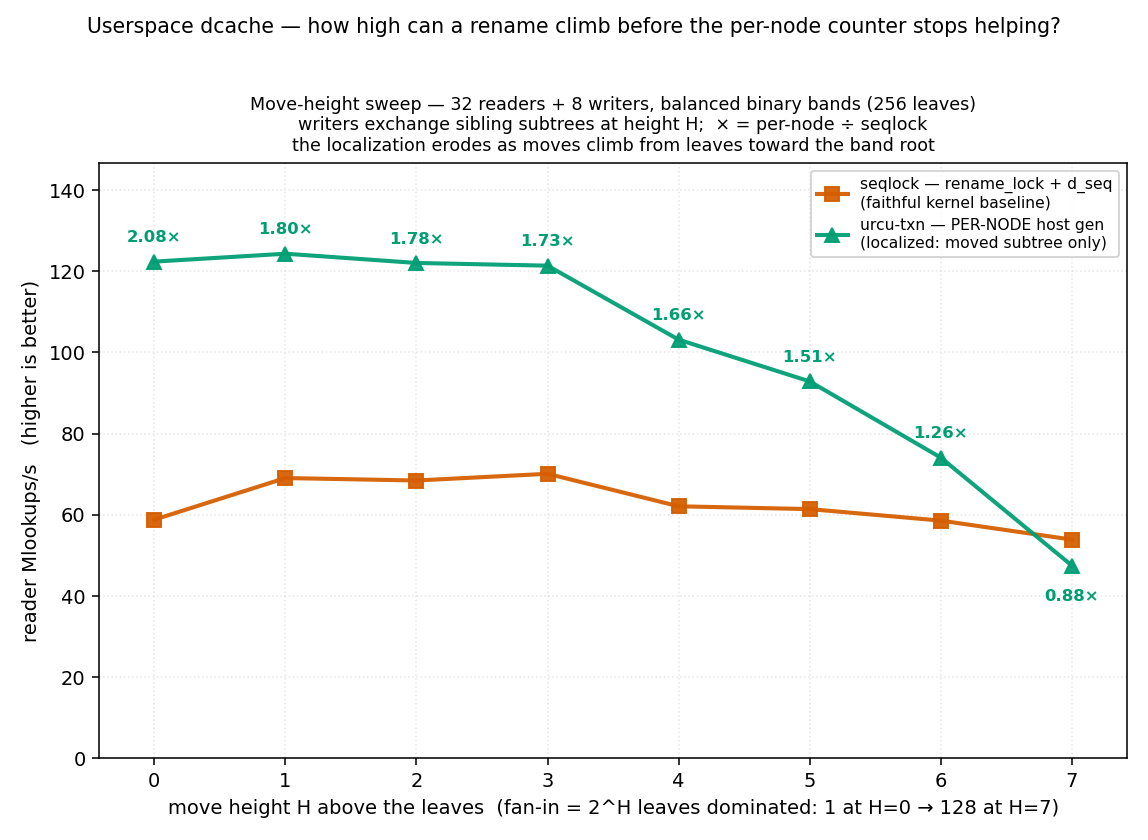
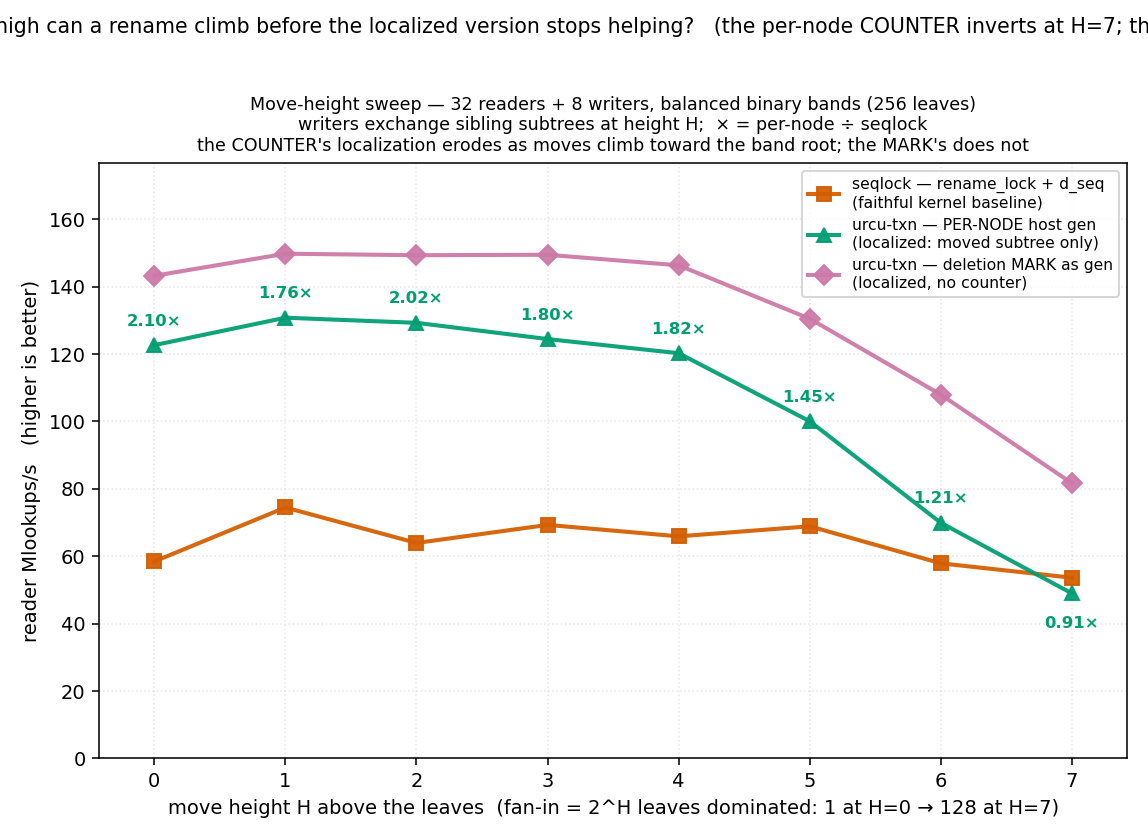
dcache: height panel -- the mark arm removes the near-root inversion
The third figure had not been regenerated: figures/dcache_height.png was
still from Jul 17, its CSV had no txn-mark rows, and the plot script's
ENGINES was a hardcoded two-way.  Wired the arm into the height binary,
the sweep and the plot, and resswept.

This is the panel where the localized arms could plausibly DIVERGE
rather than coincide -- per-node is weakest here, its lead over seqlock
eroding as moves climb toward the band root -- and they do,
substantially:

    H  fan-in   seqlock  pernode     mark | mark/pn  pn/seq  mark/seq
    0       1      60.4    119.9    142.8 |   1.19x   1.98x     2.36x
    2       4      63.7    125.3    151.3 |   1.21x   1.97x     2.38x
    4      16      66.9    120.3    148.7 |   1.24x   1.80x     2.22x
    5      32      65.5     84.9    131.9 |   1.55x   1.30x     2.01x
    6      64      56.5     74.7    109.2 |   1.46x   1.32x     1.93x
    7     128      54.2     49.1     79.8 |   1.62x   0.91x     1.47x

Reads: mark/per-node geomean 1.309x over the 8 heights, all eight points
in the same direction and growing monotonically with fan-in.  Writes are
a wash at 1.031x geomean, so this is not reads bought with writes -- the
harness is role-split with FIXED 8 writers + 32 readers and disjoint
writer bands, so the two rates are independent outcomes.

THE RESULT: at H=7 the per-node counter INVERTS below the kernel-style
baseline, 0.91x seqlock -- recorded elsewhere as the honest bound on
[…]

diff --git a/scripts/plot_dcache_height.py b/scripts/plot_dcache_height.py
@@ -29,13 +29,18 @@ CSV = os.path.join(HERE, "dcache_height.csv")
 OUT = os.environ.get("OUT",
                      os.path.join(HERE, os.pardir, "figures", "dcache_height.png"))
 
-COLOR = {"seqlock": "#D55E00", "txn-pernode": "#009E73"}
-MARKER = {"seqlock": "s", "txn-pernode": "^"}
+COLOR = {"seqlock": "#D55E00", "txn-pernode": "#009E73", "txn-mark": "#CC79A7"}
+MARKER = {"seqlock": "s", "txn-pernode": "^", "txn-mark": "D"}
 LABEL = {
     "seqlock": "seqlock — rename_lock + d_seq\n(faithful kernel baseline)",
     "txn-pernode": "urcu-txn — PER-NODE host gen\n(localized: moved subtree only)",
+    "txn-mark": "urcu-txn — deletion MARK as gen\n(localized, no counter)",
 }
-ENGINES = ("seqlock", "txn-pernode")
+# The height panel is where the localized arms are WEAKEST (the per-node lead
+# erodes toward the root), so it is the panel where they could plausibly diverge
+# rather than coincide -- worth plotting the mark arm here explicitly.
+ENGINES = tuple(os.environ.get(
+    "ENGINES", "seqlock txn-pernode txn-mark").split())
 rows = [r for r in csv.DictReader(open(CSV)) if r["conserved"] == "OK"]
 
 
@@ -78,12 +83,13 @@ ax.set_xlabel("move height H above the leaves  "
 ax.set_ylabel("reader Mlookups/s   (higher is better)")
 ax.set_title("Move-height sweep — 32 readers + 8 writers, balanced binary bands "
              "(256 leaves)\nwriters exchange sibling subtrees at height H;  "
-             "× = per-node ÷ seqlock\nthe localization erodes as moves climb from "
-             "leaves toward the band root", fontsize=9)
+             "× = per-node ÷ seqlock\nthe COUNTER's localization erodes as moves "
+             "climb toward the band root; the MARK's does not", fontsize=9)
 ax.grid(alpha=0.3, ls=":")
 ax.legend(fontsize=8, loc="best")
-fig.suptitle("Userspace dcache — how high can a rename climb before the per-node "
-             "counter stops helping?", fontsize=10.5)
+fig.suptitle("Userspace dcache — how high can a rename climb before the localized "
+             "version stops helping?   (the per-node COUNTER inverts at H=7; the "
+             "deletion MARK does not)", fontsize=10.5)
 fig.tight_layout(rect=[0, 0, 1, 0.96])
 fig.savefig(OUT, dpi=140)
 print("wrote", os.path.abspath(OUT))
